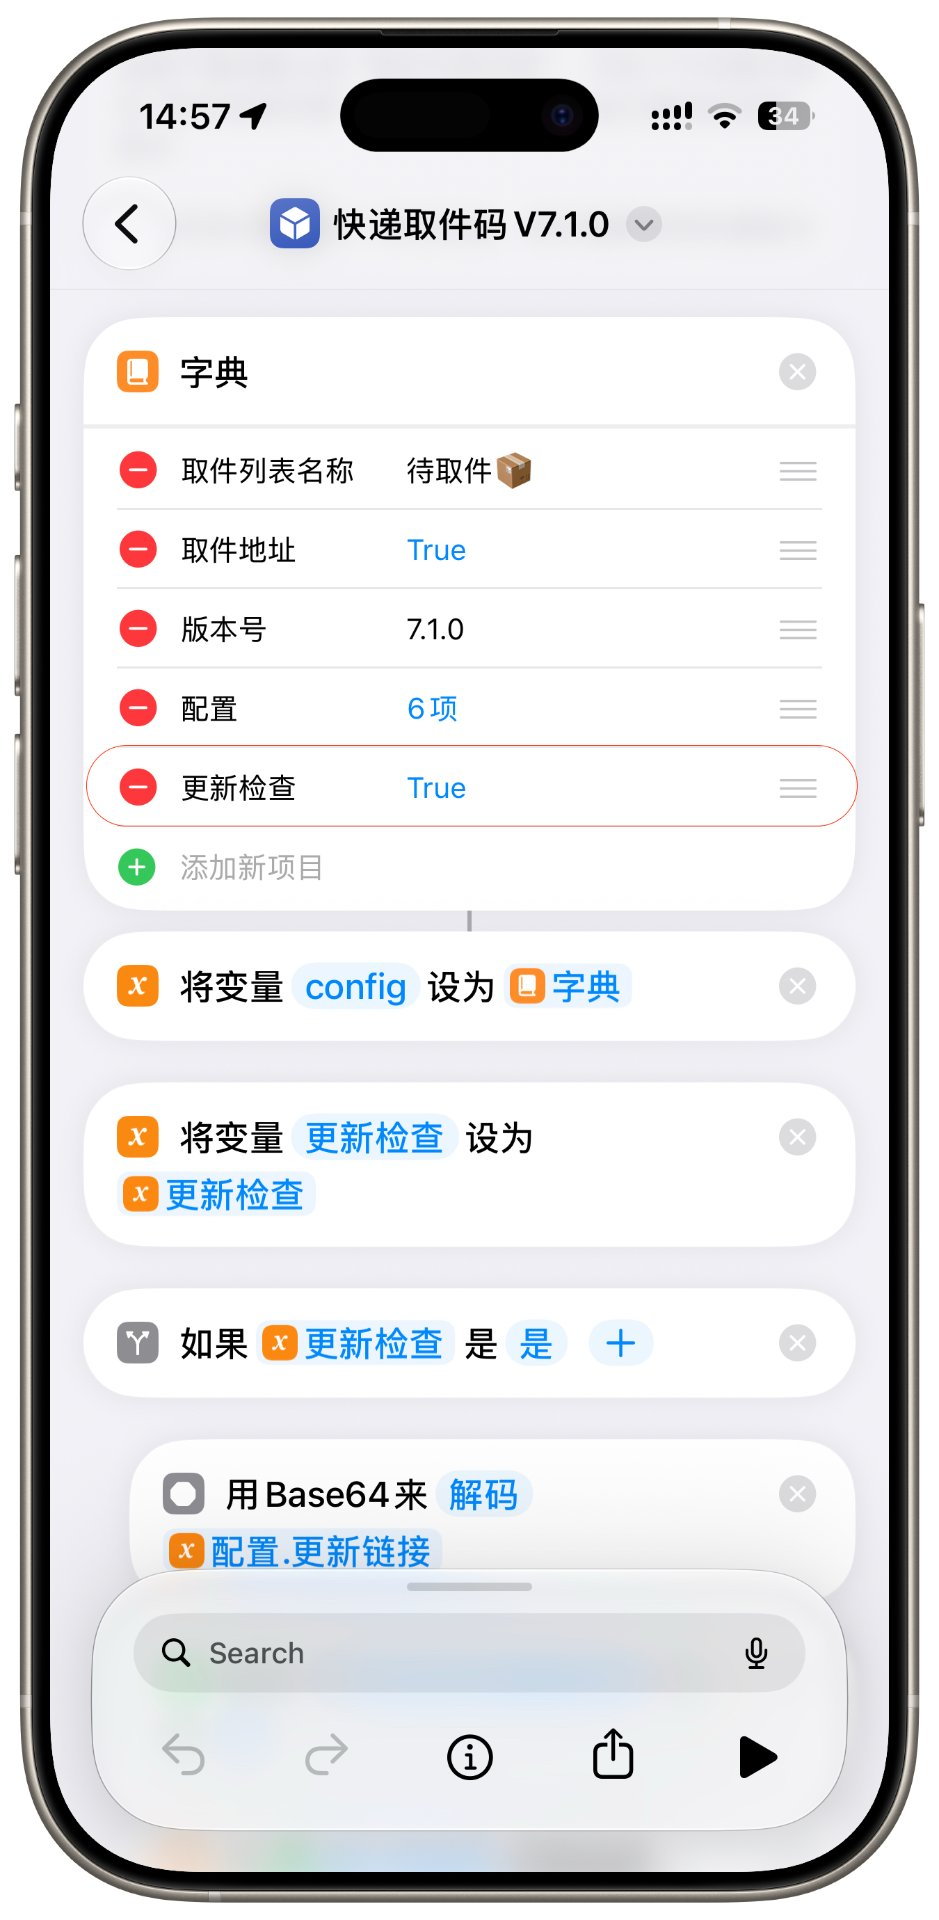
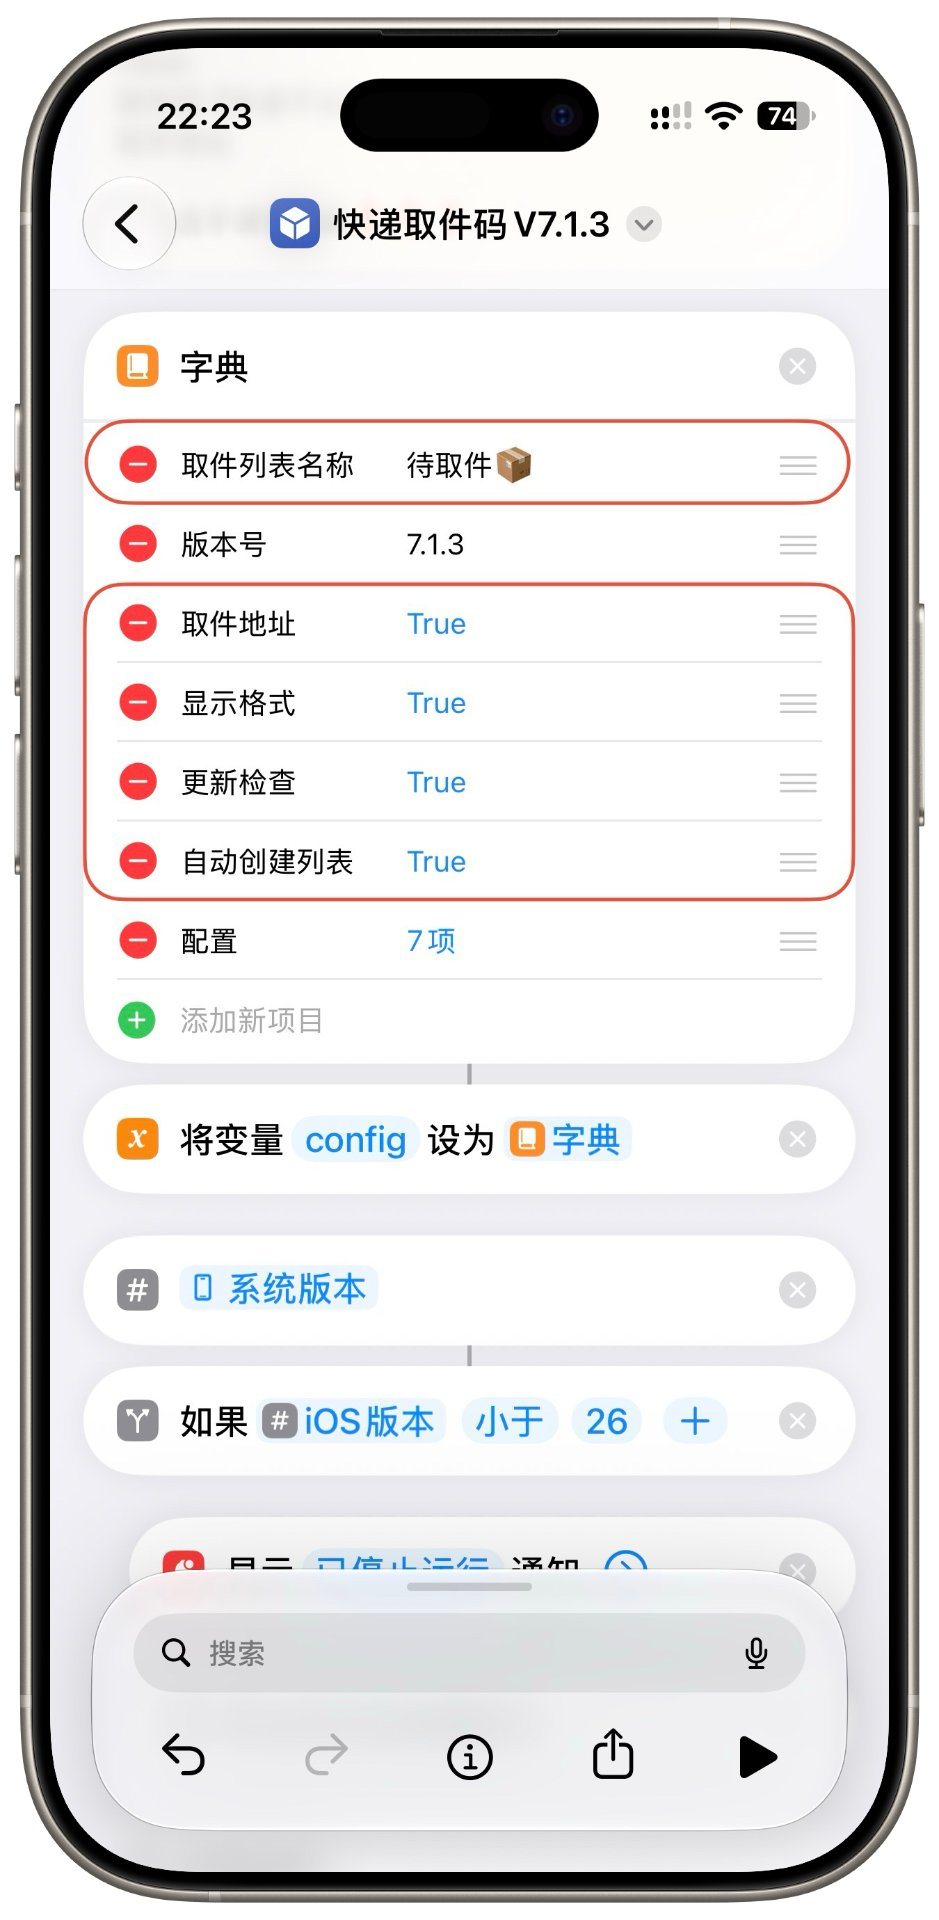
docs: 替换更新检查截图为完整字典配置界面（含全部6项可配置项）
- assets/update-check-toggle.jpg：替换为完整字典截图（取件列表名称/版本号/取件地址/显示格式/更新检查/自动创建列表）
- USAGE.md：新增配置项对照表，自动创建列表子节精简为引用

diff --git a/USAGE.md b/USAGE.md
@@ -76,22 +76,28 @@ V7.1.0 起引入了**在线版本检查**功能：指令启动时会联网拉取
 3. 在字典列表中找到名为 **「更新检查」** 的条目
 4. 将其值由 **True** 改为 **False**
 
-![更新检查开关位置](assets/update-check-toggle.jpg)
+![V7.1.3 字典全部可配置项](assets/update-check-toggle.jpg)
 
-> 上图中红色圈出的即为「**更新检查**」开关项，当前值为 `True`（开启状态）。点击修改为 `False` 即可关闭在线更新。
+上图为 V7.1.3 配置字典的完整界面，包含以下**全部可配置项**：
 
-关闭后指令将跳过联网步骤，完全离线运行。
+| 配置项 | 默认值 | 说明 |
+| --- | --- | --- |
+| **取件列表名称** | `待取件📦` | 提醒事项中存放取件记录的列表名称，可自定义 |
+| **版本号** | `7.1.3` | 当前指令版本号（只读） |
+| **取件地址** | `True` | 是否在提醒事项中显示取件地址 |
+| **显示格式** | `True` | 是否启用自定义显示格式（控制三要素排列顺序） |
+| **更新检查** | `True` | 在线版本检查开关，改为 `False` 可离线运行 |
+| **自动创建列表** | `True` | 首次运行时是否自动创建「待取件📦」列表 |
+
+> ⚠ **小白用户建议保持所有默认值**，无需更改。如需调整，在上述字典中直接点击对应条目修改即可。
+
+关闭「更新检查」后，指令将跳过联网步骤，完全离线运行（改为通知推送新版本提示，不中断取件流程）。
 
 > ⚠ **离线模式 vs 联网模式**：关闭更新检查后，你将不会收到新版本提示。建议在有网络时定期打开检查一次，或在仓库页面手动查看是否有新版发布。
 
 ### 自动创建列表（V7.1.3 新增）
 
-V7.1.3 新增了**自动创建提醒事项列表**功能：首次保存快捷指令时，会提示是否在「提醒事项」App 中自动创建名为「待取件📦」的列表。
-
-- **默认值 `True`（开启）**：首次运行时自动创建「待取件📦」列表，无需手动操作
-- **改为 `False`（关闭）**：不自动创建列表，需你自己在「提醒事项」App 中手动新建
-
-> 💡 **小白用户建议保持默认 `True`**，无需更改。
+首次保存快捷指令时，系统会弹出「配置此快捷指令」页面（见下方三联图左），可在此编辑「自动创建列表」开关。保存后也可随时在字典中修改（见上方配置项表格）。
 
 ![自动创建列表设置流程](assets/auto-create-list-guide.jpg)
 
